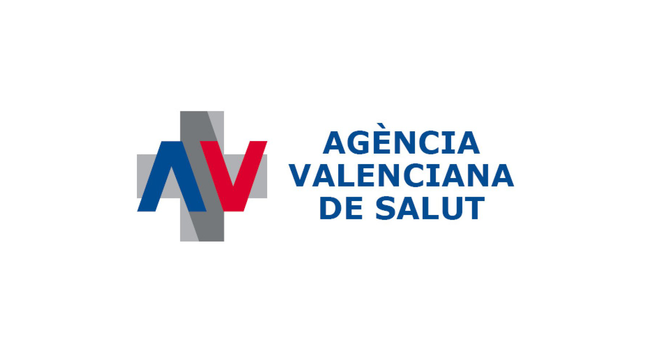
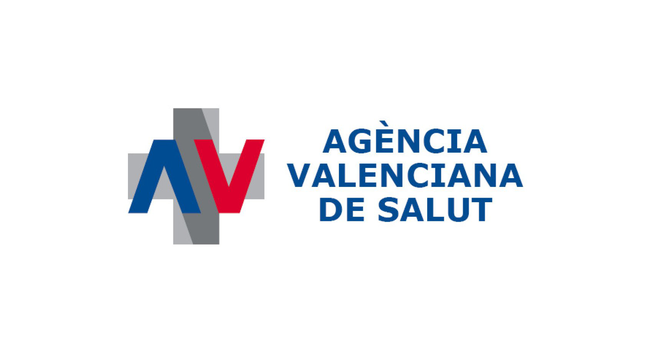
added remaining clients

Changed region(s): [[0.1846, 0.2857, 0.8, 0.7143]]

diff --git a/static/img/conv.py b/static/img/conv.py
@@ -38,7 +38,7 @@ for fi in os.listdir('orig'):
     orig = fi
     dest = os.path.splitext(fi)[0]
     print 'fi :' + fi + "..." + dest
-    cmd = 'convert ./orig/%s -resize 420 -gravity center -extent 650x350 -background white ./portfolio/%s.png' % (fi, dest)
+    cmd = 'convert ./orig/%s -resize 440 -gravity center -extent 650x350 -background white ./portfolio/%s.png' % (fi, dest)
     print cmd
     print os.getcwd()
     shell(cmd)
